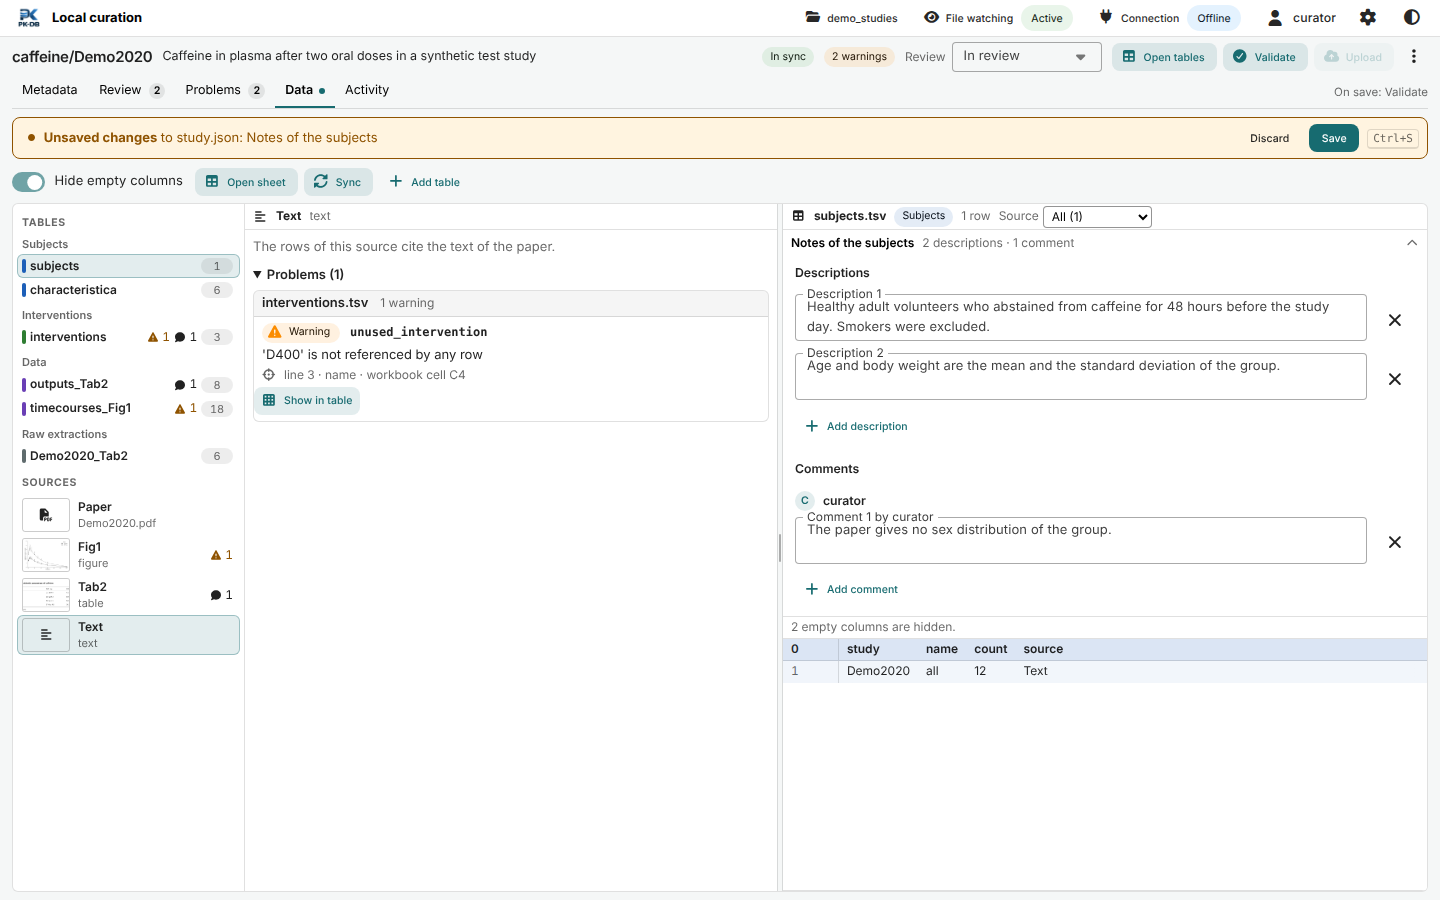
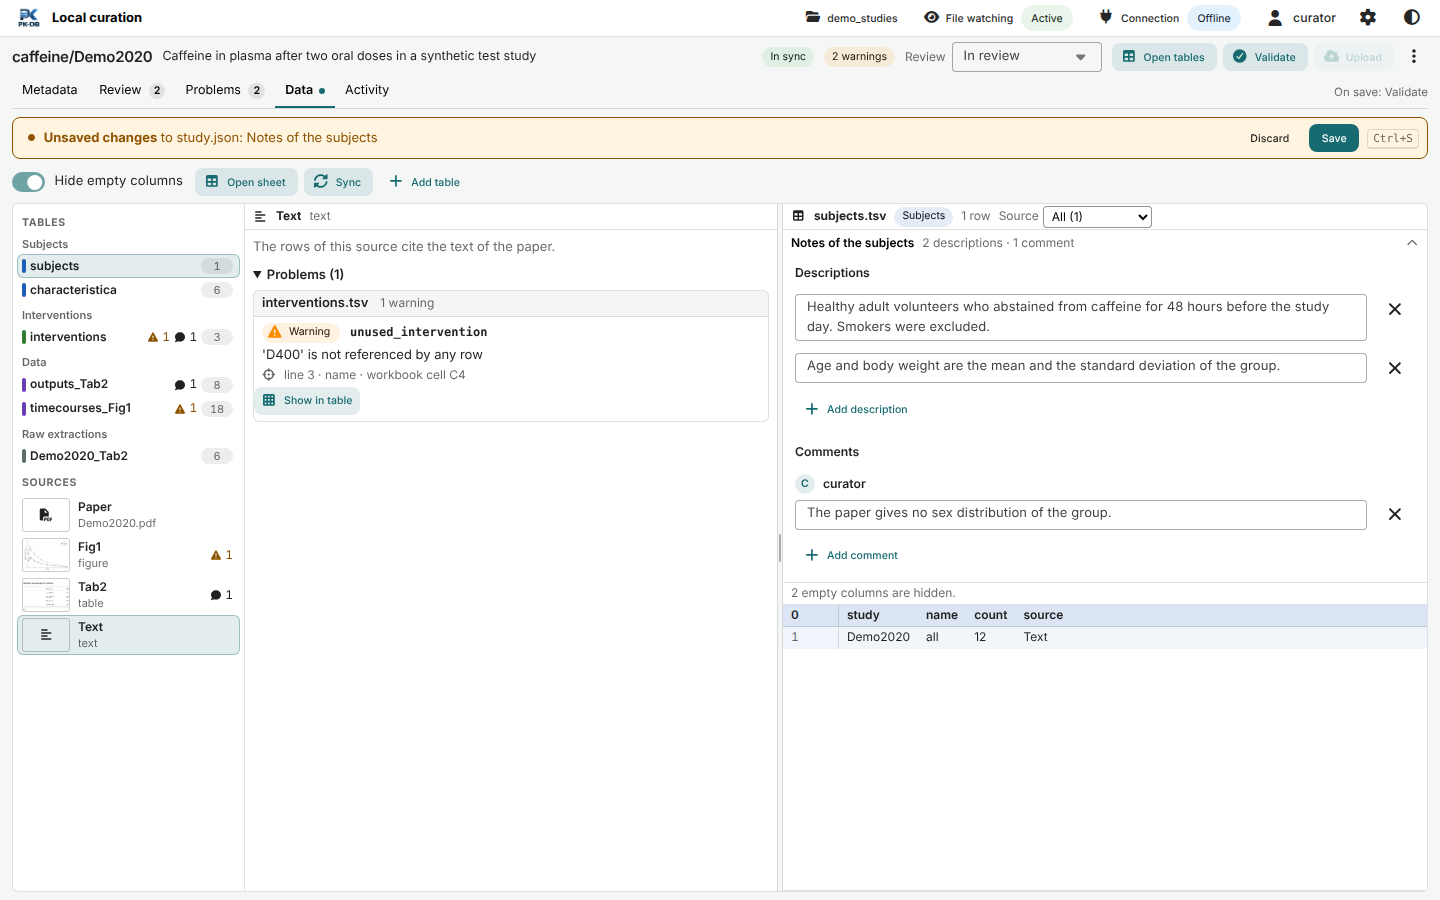
Describe the descriptions and comments without labels in the curation guide

Changed region(s): [[0.5312, 0.4356, 1.0, 0.7467], [0.5625, 0.3733, 0.625, 0.4044], [0.5625, 0.3111, 0.5938, 0.3422]]

diff --git a/docs/local-curation.md b/docs/local-curation.md
@@ -109,7 +109,7 @@ The Metadata section edits `study.json` in forms.
 - **People**: the creator, the curators with a rating from 0 to 5 stars in half steps, and the collaborators, offered from the curator roster.
 - **Access and provenance**: the licence, open or closed, and the access, public or private; public needs a release. The provenance is a manual curation, or an automatic curation with its method, version, run ID and assets. A data import is shown as the importer set it.
 - **Issue and release**: read only. `pkdb new` or `pkdb issues sync --adopt` sets the issue. `pkdb release STUDY...` sets the release of approved studies without open review items and validation errors; release through a pull request.
-- **Descriptions and comments** of the study. A comment records the user who wrote it. The notes of each kind of table are in the Data section, above the table. Notes of a kind that the study has no table of, such as after the table was removed, show in this card only when `study.json` has them: you can edit or remove them here, but not start them.
+- **Descriptions and comments** of the study. Each description is a text box without a label below the heading **Descriptions**: it starts one line high and grows with its text up to ten lines. A comment shows the avatar and the name of the user who wrote it above its text. The notes of each kind of table are in the Data section, above the table. Notes of a kind that the study has no table of, such as after the table was removed, show in this card only when `study.json` has them: you can edit or remove them here, but not start them.
 
 Edits stay in the form until you save them. The Metadata and Data sections edit one draft of `study.json`, and a banner under their section tabs shows its state. Without unsaved changes it says **No unsaved changes to study.json**, without buttons. With unsaved changes it turns amber and names the changed fields, such as **Unsaved changes to study.json: Source key, Notes of the outputs**, with **Discard** and **Save**. It names up to three fields and counts the others, such as **and 2 more**, and fewer when the names do not fit into its line. A new `study.json` that is not written yet shows **new file, not written yet**. After a save or a discard, the banner shows the outcome for a few seconds, such as **study.json saved.** The banner keeps its height in every state, so the form does not move when you start to edit. While there are unsaved changes or the banner shows a notice or a problem, it stays at the top of the window while the page scrolls; otherwise it scrolls with the page. The other sections of the study show the banner when they open with unsaved changes or with a notice or a problem of the last save, and keep it until you leave the section; after a save there it shows that there are no unsaved changes. **Ctrl+S** (**Cmd+S** on macOS) saves from anywhere on the study page, also a collaborator that you typed but did not add yet; without unsaved changes it does nothing. **Discard** drops the edits, and **Undo** brings them back for a few seconds. A dot on the tab of a section marks its unsaved fields: Metadata for the fields of this section, Data for the notes of the tables. Switching between the sections of the study keeps the edits; leaving the study with unsaved changes asks first. **Save** checks the whole document and writes it. When it is not valid, nothing is written, the fields with problems are marked, and the banner lists the problems of the fields that the section does not show with their field, such as a wrong PMID when you save from the Data section. A new PMID or DOI fetches `reference.json` for it; when the lookup fails, `study.json` is saved and the banner says why.
 

diff --git a/release-notes/unreleased.md b/release-notes/unreleased.md
@@ -1,1 +1,3 @@
 # Unreleased
+
+- The descriptions and comments of a study and of the notes of its tables in the local curation app no longer show a label such as Description 1 or Comment 1 by curator: a description starts one line high, as high as the other fields, and grows with its text, a comment shows its author once above its text, and screen readers still hear the name of each field (#954).
